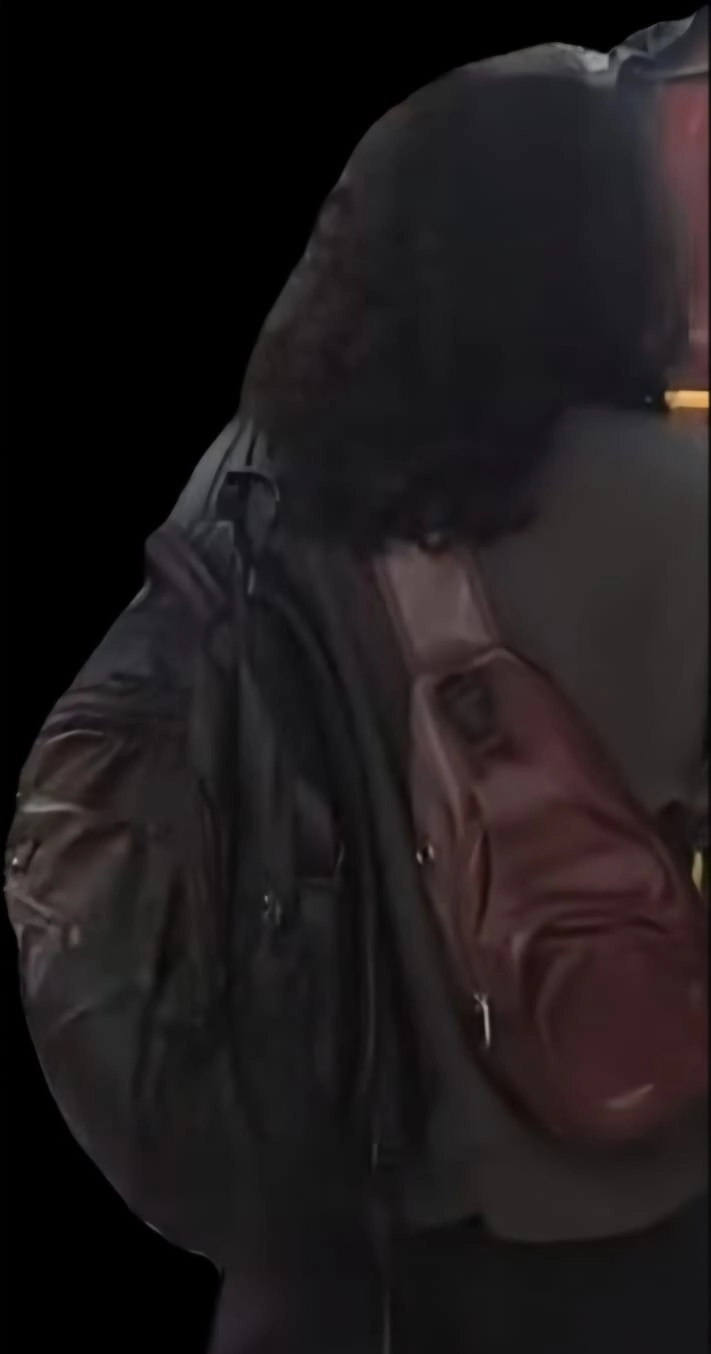
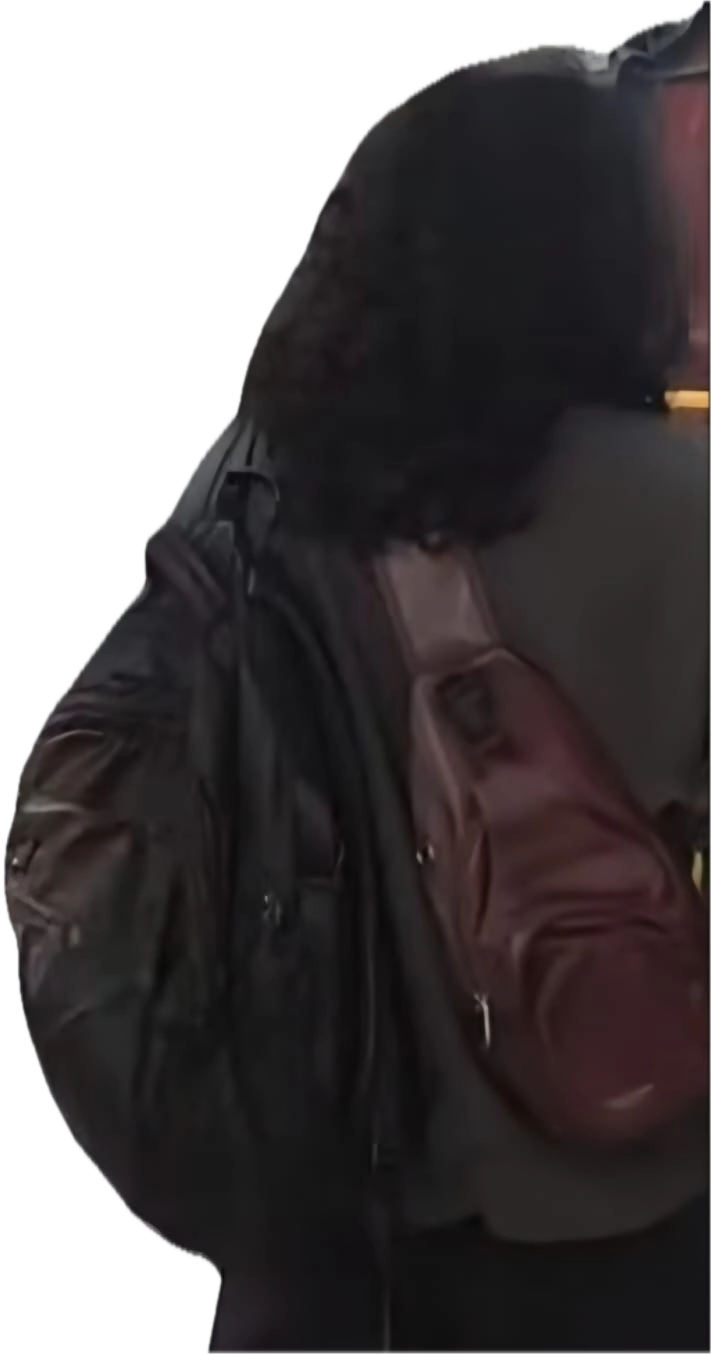
main

Changed region(s): [[0.0, 0.0, 1.0, 1.0]]

diff --git a/index.html b/index.html
@@ -128,6 +128,37 @@
       .mobile-hint {
         display: block;
       }
+      header {
+        padding: 8px 10px;
+        flex-wrap: wrap;
+        gap: 6px;
+      }
+      .left-ui {
+        min-width: 0;
+        flex: 1 1 auto;
+      }
+      #level-title {
+        font-size: 0.88rem;
+      }
+      #progress-text {
+        font-size: 0.95rem;
+      }
+      .mobile-hint {
+        font-size: 0.7rem;
+        line-height: 1.15;
+      }
+      .top-controls {
+        width: 100%;
+        order: 3;
+        justify-content: flex-end;
+      }
+      .top-controls button {
+        padding: 6px 10px;
+        font-size: 0.85rem;
+      }
+      #inventory {
+        max-width: none;
+      }
     }
 
     #inventory {
@@ -339,6 +370,38 @@
       text-align: center;
       box-shadow: 0 10px 40px rgba(0, 0, 0, 0.55);
       animation: popIn 0.28s cubic-bezier(0.175, 0.885, 0.32, 1.275);
+      display: flex;
+      flex-direction: column;
+    }
+
+    #modal-box #modal-icon {
+      flex-shrink: 0;
+    }
+
+    #modal-box #modal-text {
+      flex: 1;
+      min-height: 0;
+      overflow-y: auto;
+    }
+
+    #modal-box #modal-actions {
+      flex-shrink: 0;
+    }
+
+    @media (max-width: 768px) {
+      #modal-box {
+        max-height: 75vh;
+        max-height: 75dvh;
+        padding: 16px;
+      }
+      #modal-text {
+        font-size: 1rem;
+        margin-bottom: 12px;
+        max-height: 45vh;
+      }
+      #modal-actions {
+        margin-top: 4px;
+      }
     }
 
     @keyframes popIn {
@@ -655,7 +718,7 @@
         msg: "While others your age were only doomscrolling, you were teaching yourself prompt engineering and how to build with AI. \nYou don’t just learn—you implement.\n You look for ways to solve real problems. \nYou’re not just using AI. You’re shaping it.\n Imagine the tools you’ll build for travelers, artists, and dreamers."
       },
       {
-        id: 'backpack', act: 1, icon: '🎒', src: 'src/images/bag.png', x: 72, y: 74,
+        id: 'backpack', act: 1, icon: '🎒', src: 'src/images/bag_cropped.jpeg', x: 72, y: 74,
         msg: "This bag carried books, late nights, and quiet dreams.\nOne day it’ll carry a passport and a toothbrush.\nThe weight will feel different—lighter."
       },
 
@@ -1091,7 +1154,8 @@ When you're ready, the adventure will begin.`;
       promptDiv.style.display = 'none';
 
       if (itemData.src) {
-        modalIcon.innerHTML = `<img src="${itemData.src}" style="max-width: 160px; border-radius: 10px;">`;
+        const imgSize = itemData.act === 3 ? '280px' : '160px';
+        modalIcon.innerHTML = `<img src="${itemData.src}" style="max-width: ${imgSize}; border-radius: 10px;">`;
       } else {
         modalIcon.innerText = itemData.icon;
       }
